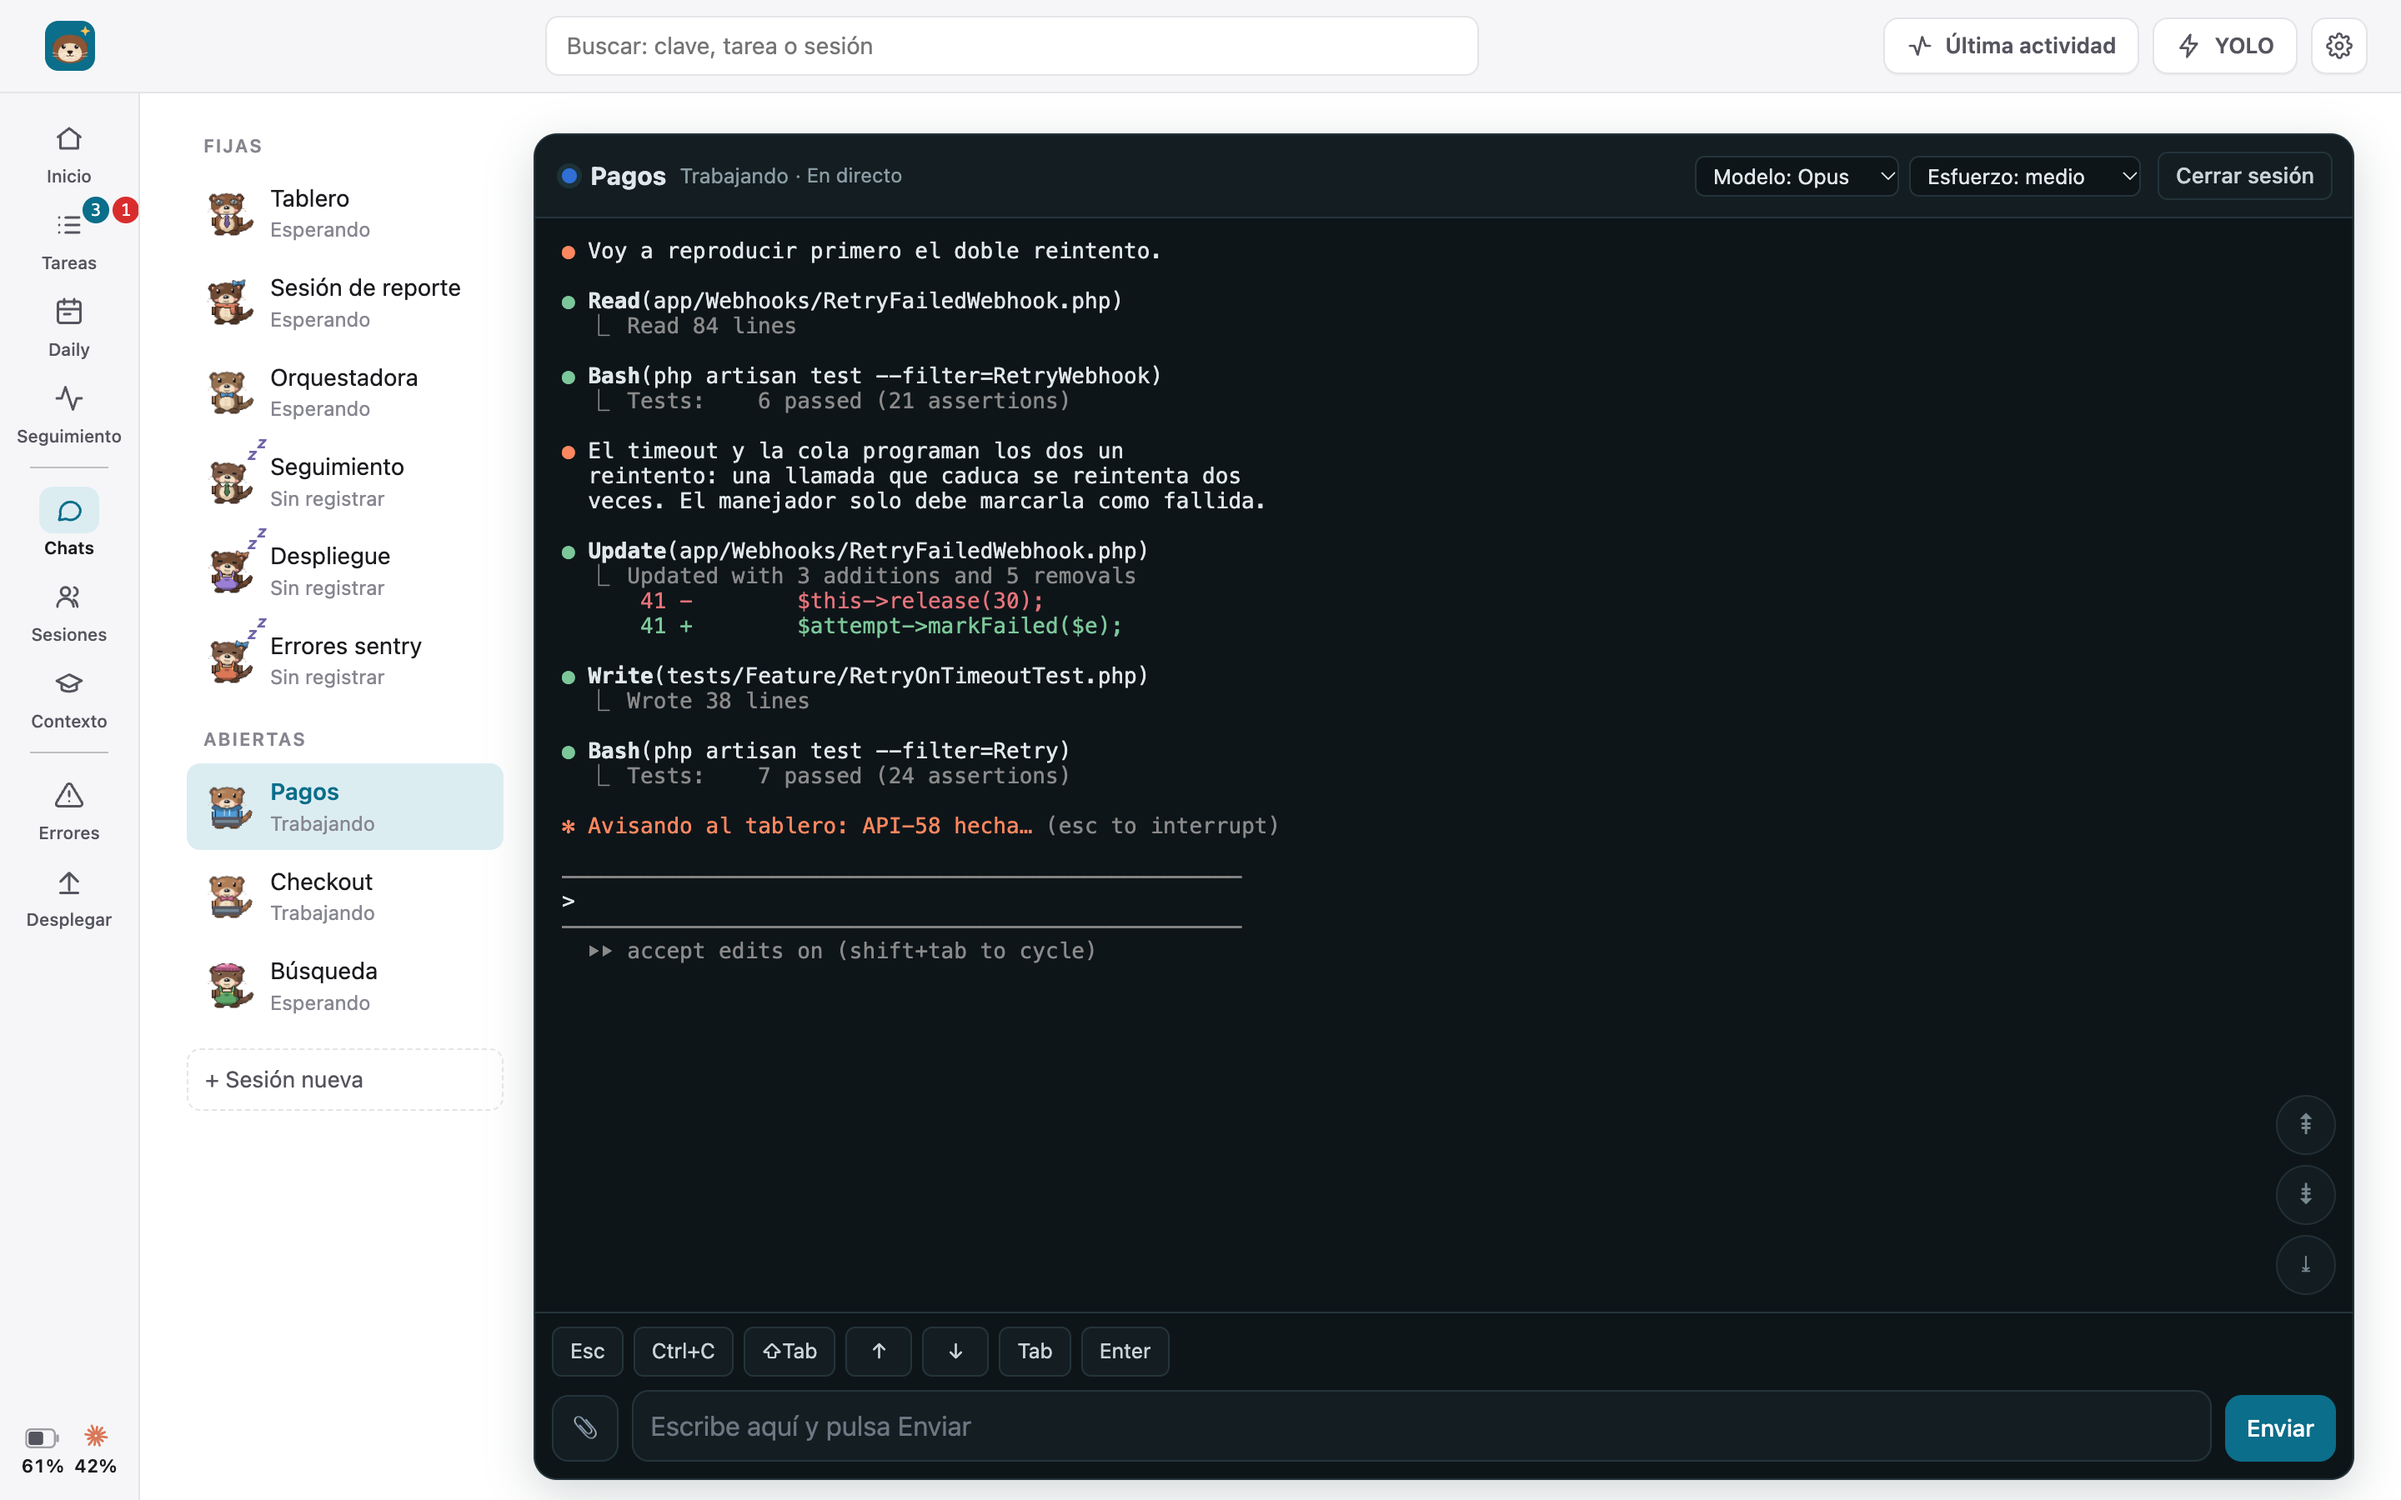
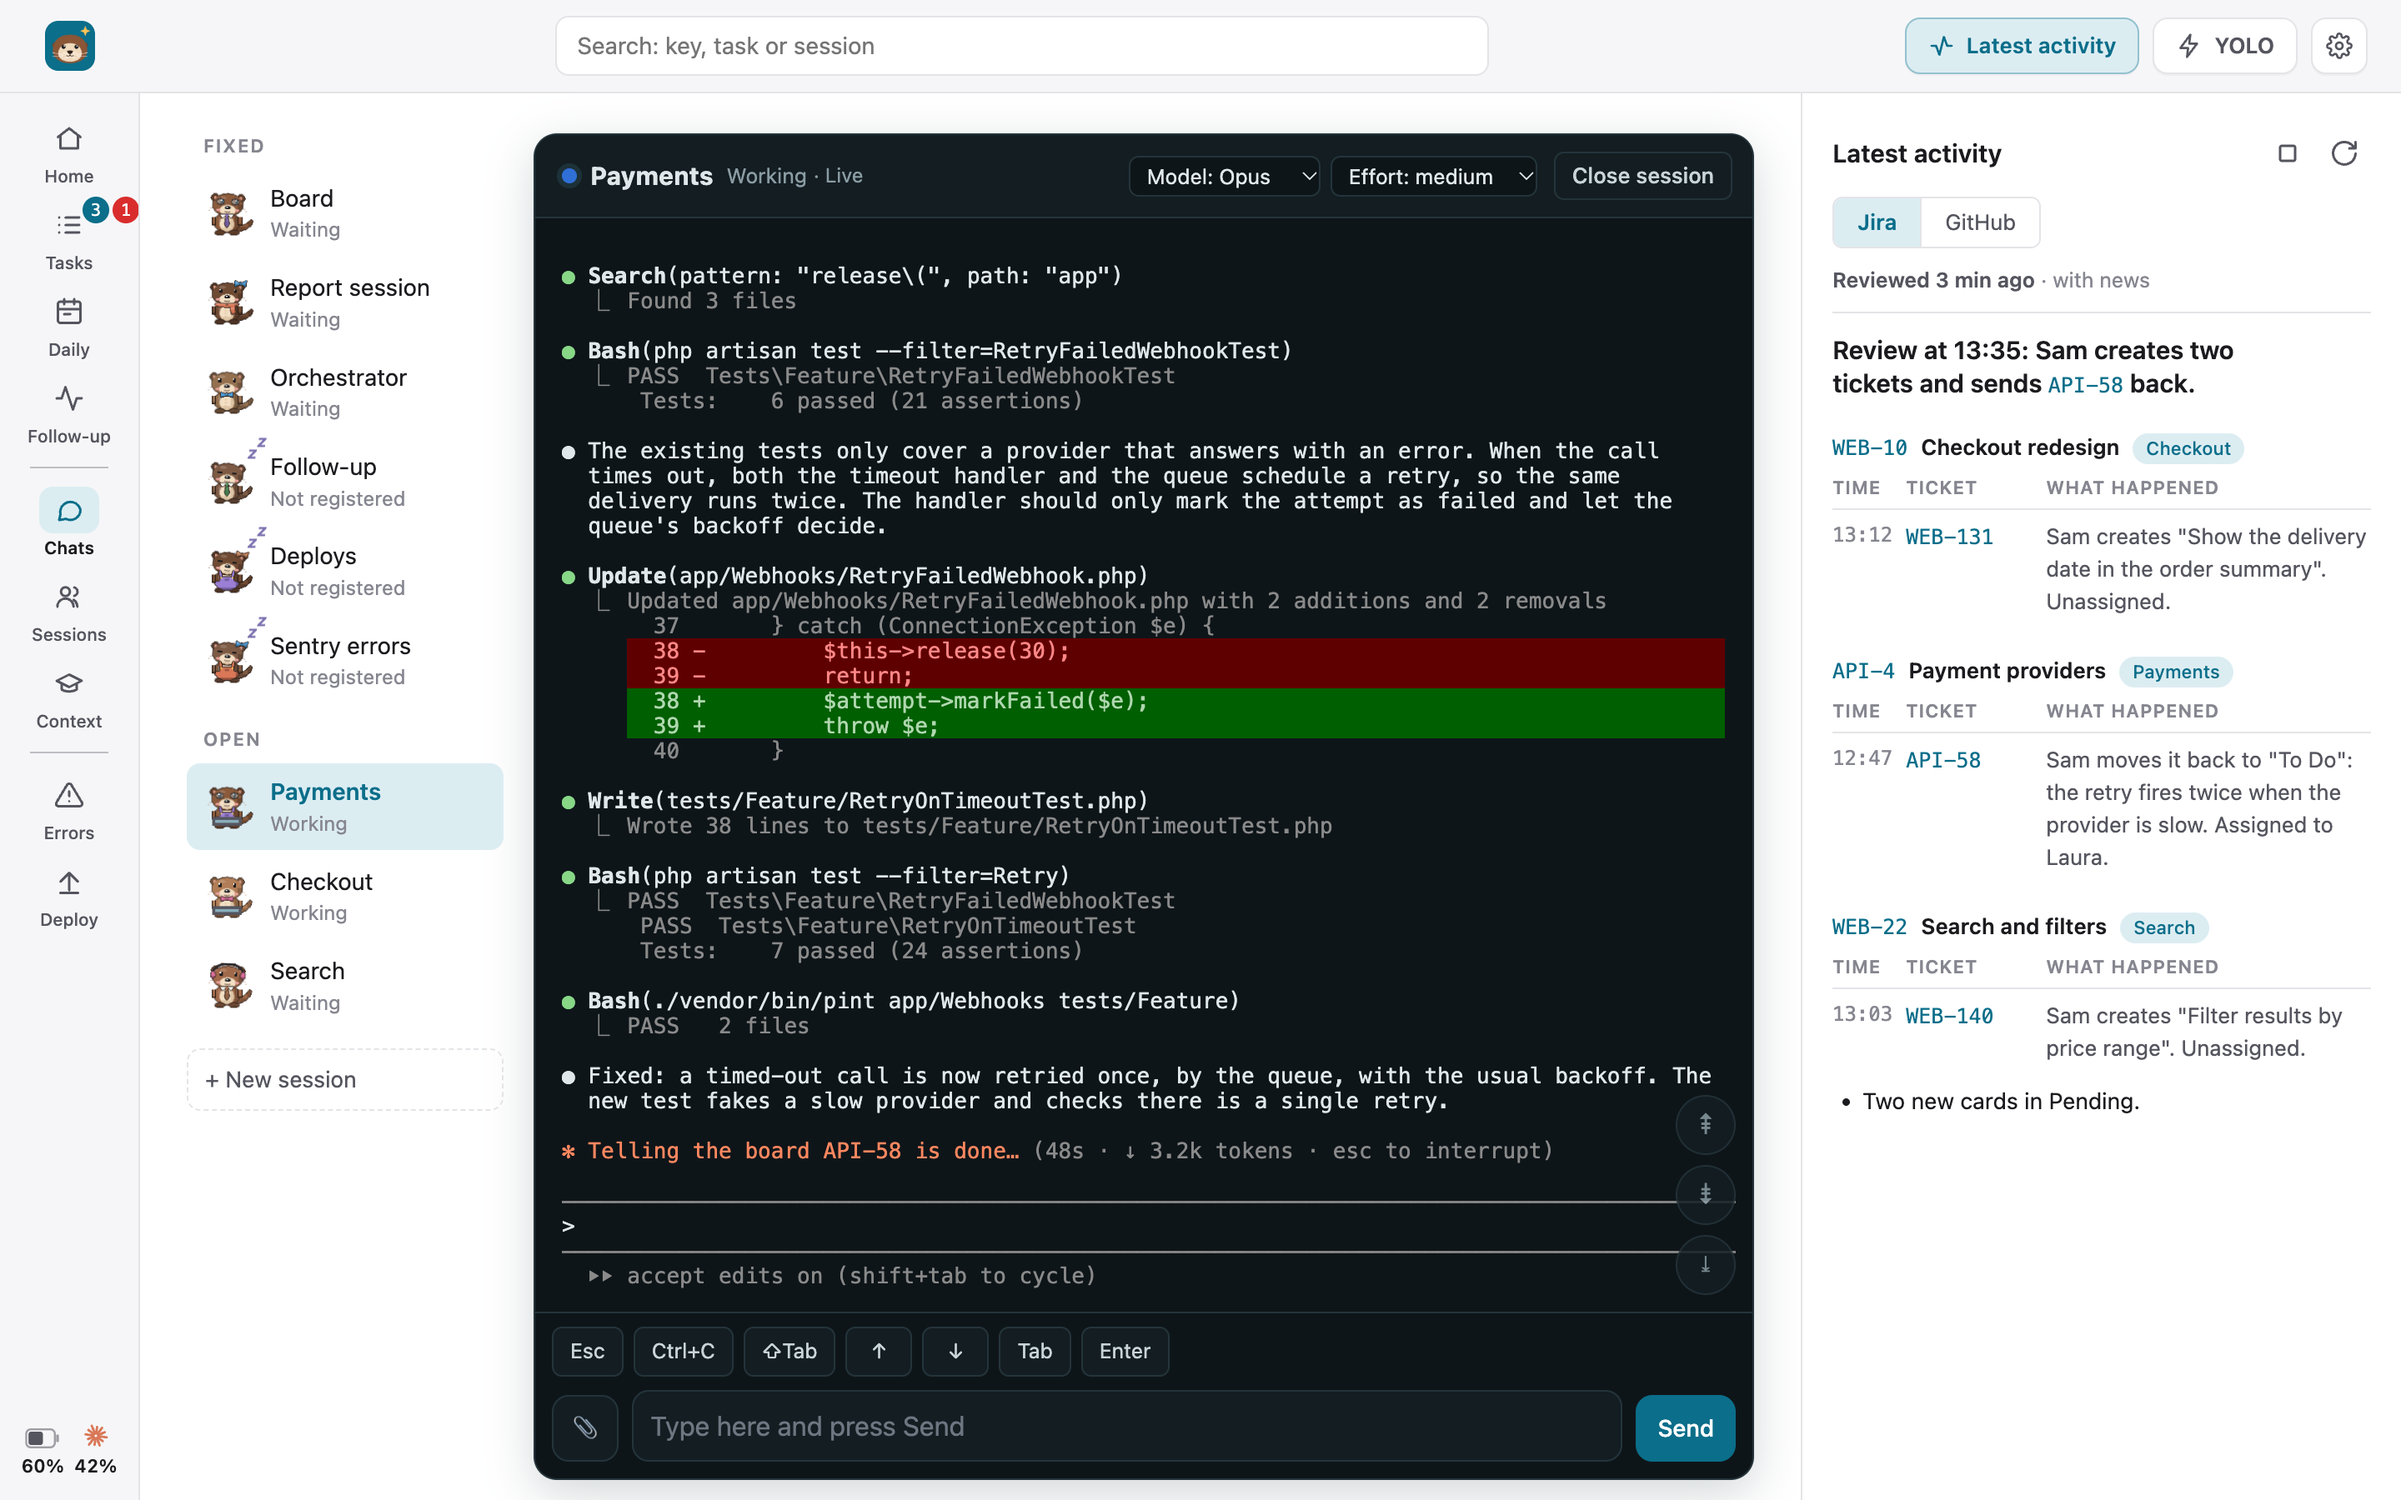
README: English screenshots with a full-width terminal in Talk

diff --git a/README.md b/README.md
@@ -32,11 +32,11 @@ It also has:
 - a "Learning" tab that tracks how often work comes back from review;
 - the shared `context/` folder kept in sync through git.
 
-![Talk: the session list and the live terminal of a session fixing a ticket that came back from review](docs/talk.png)
+![Talk: the session list and the live terminal of a session fixing a ticket that came back from review, next to the latest Jira activity](docs/talk.png)
 
 <img src="docs/phone.png" alt="Talk on the phone: the same live terminal, with the session picker, the battery and Claude quota in the top bar, and keys for Esc, Tab and the arrows" width="300">
 
-Everything runs on your machines: one small binary (`tower`, written in Rust) serving on `127.0.0.1`, a SQLite file and your Jira API token in a local `.env`. Nothing goes anywhere except your own Jira, and Sentry, GitHub and AWS if you turn them on. The interface is in Spanish.
+Everything runs on your machines: one small binary (`tower`, written in Rust) serving on `127.0.0.1`, a SQLite file and your Jira API token in a local `.env`. Nothing goes anywhere except your own Jira, and Sentry, GitHub and AWS if you turn them on. The interface is in Spanish, with English available in Ajustes → Apariencia (the screenshots use English).
 
 Why it is built the way it is, decision by decision, with the traps found on the way: [docs/DECISIONS.md](docs/DECISIONS.md).
 
